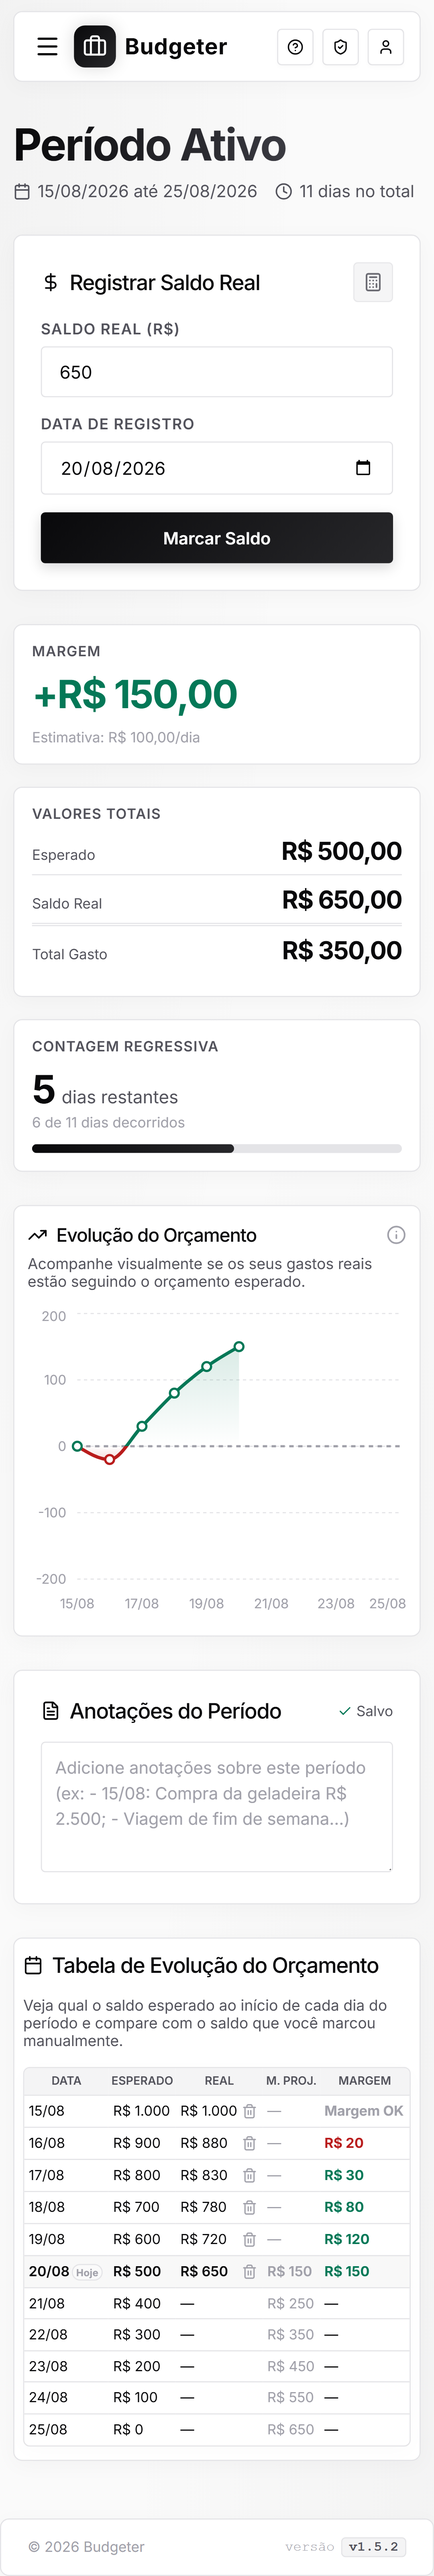
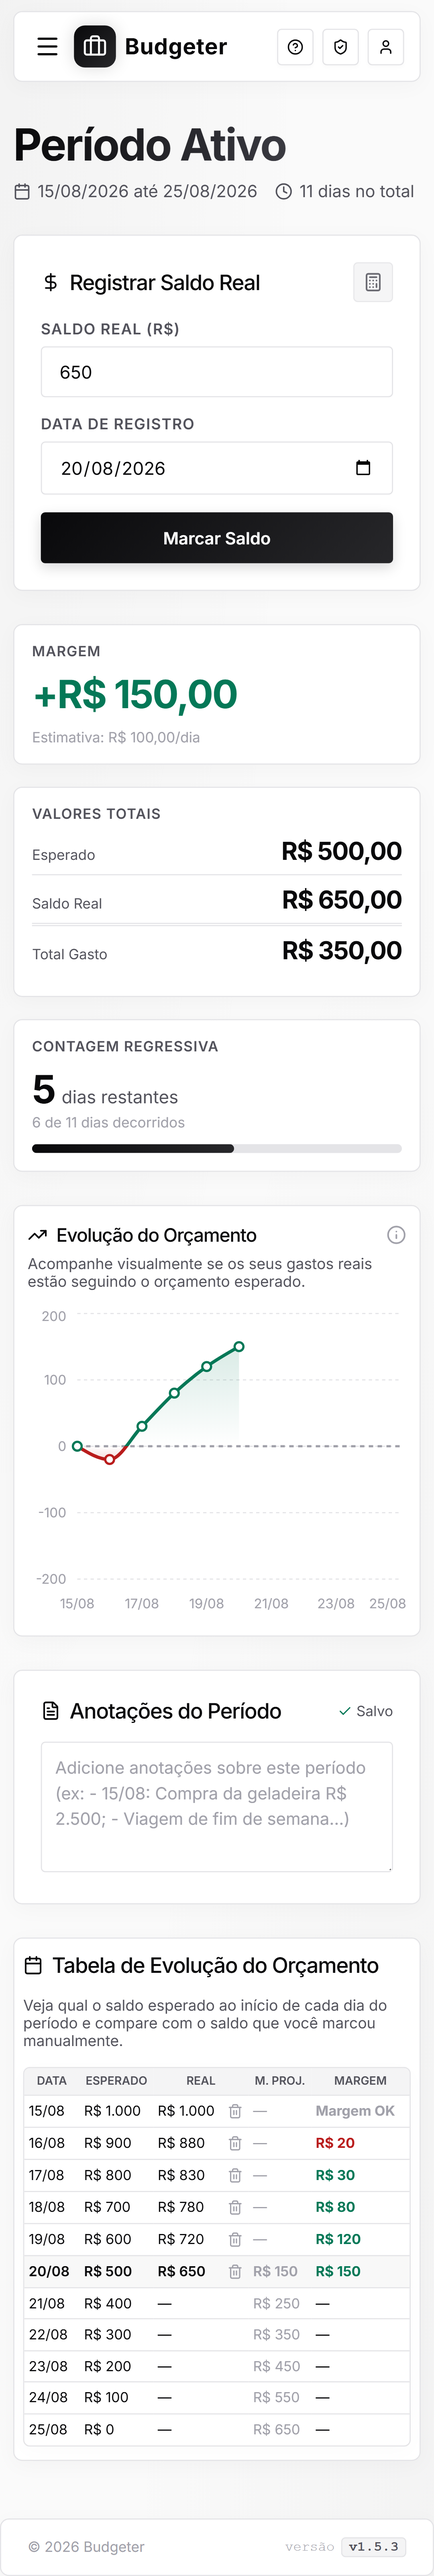
style: hide today badge in mobile table view (v1.5.4)

Changed region(s): [[0.1832, 0.8122, 0.58, 0.9372], [0.58, 0.8747, 0.7327, 0.9372], [0.7327, 0.8122, 0.8548, 0.8747]]

diff --git a/playwright-report/index.html b/playwright-report/index.html
@@ -87,4 +87,4 @@ Error generating stack: `+l.message+`
     <div id='root'></div>
   </body>
 </html>
[2 lines of base64/hex data omitted]

diff --git a/src/components/PeriodDetail.tsx b/src/components/PeriodDetail.tsx
@@ -1103,7 +1103,7 @@ export const PeriodDetail: React.FC<PeriodDetailProps> = ({
                         <span className="hide-mobile">{formatDate(dateStr)}</span>
                         <span className="show-mobile">{formatShortDate(dateStr)}</span>
                         {isToday && (
-                          <span className="badge badge-neutral today-badge" style={{ marginLeft: '8px', padding: '2px 8px', fontSize: '0.65rem', textTransform: 'none' }}>
+                          <span className="badge badge-neutral today-badge hide-mobile" style={{ marginLeft: '8px', padding: '2px 8px', fontSize: '0.65rem', textTransform: 'none' }}>
                             Hoje
                           </span>
                         )}

diff --git a/src/index.css b/src/index.css
@@ -585,10 +585,7 @@ h1, h2, h3, h4, .font-display {
   }
 
   .today-badge {
-    display: inline-block;
-    margin-left: 2px !important;
-    padding: 1px 3px !important;
-    font-size: 0.55rem !important;
+    display: none !important;
   }
 
   .table-recorded-cell {
